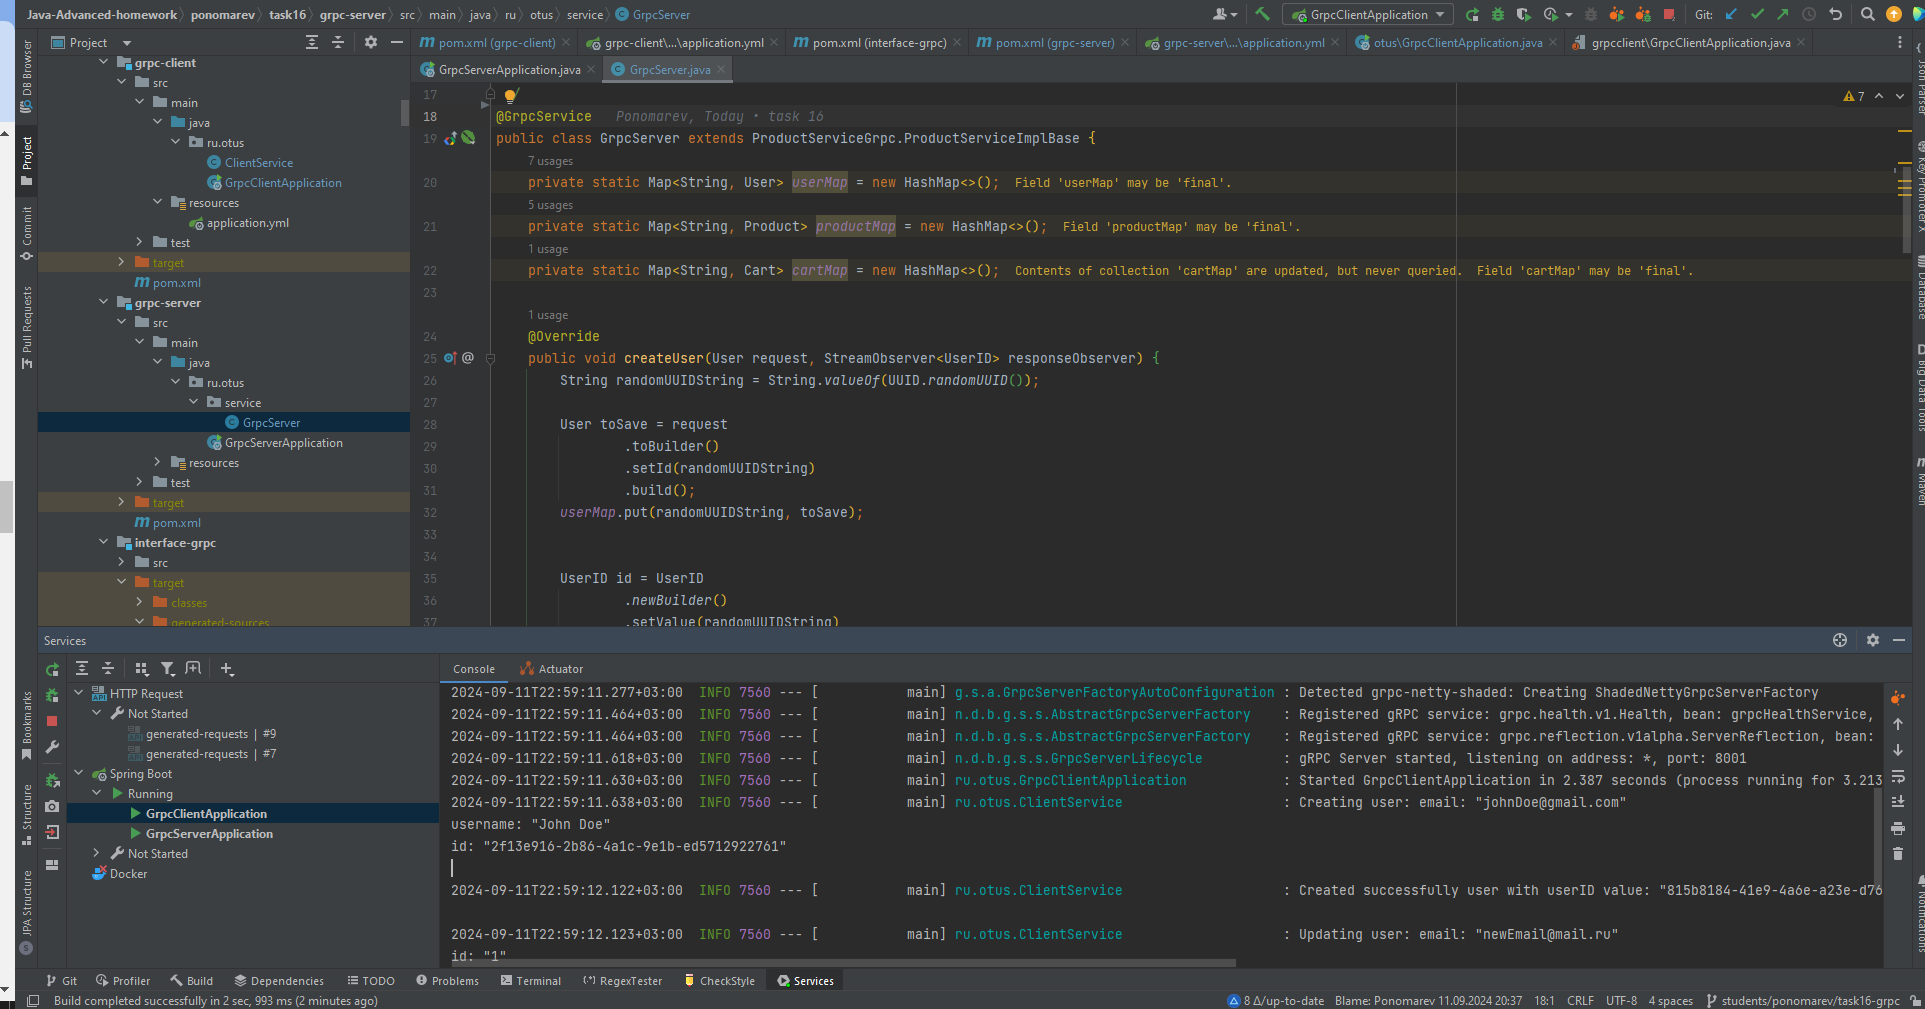
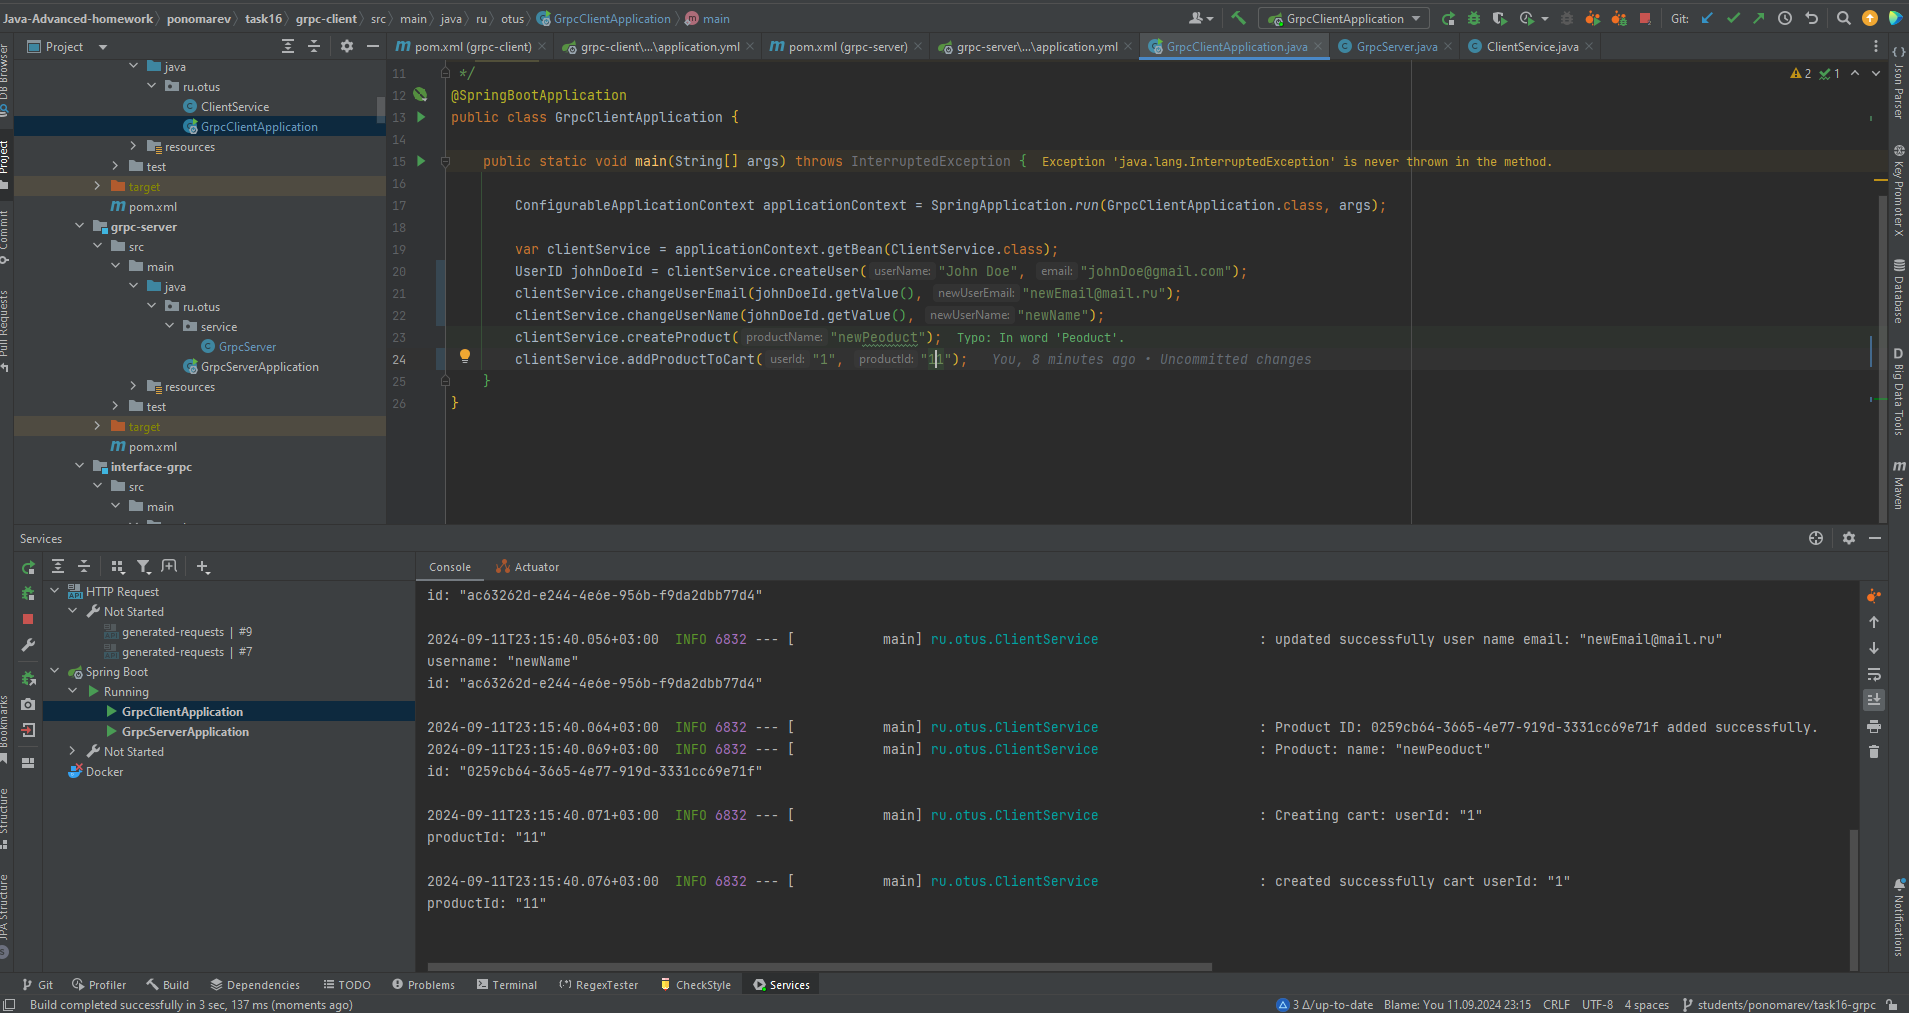
task 16 * code refactor

diff --git a/ponomarev/task16/grpc-client/src/main/java/ru/otus/GrpcClientApplication.java b/ponomarev/task16/grpc-client/src/main/java/ru/otus/GrpcClientApplication.java
@@ -3,6 +3,7 @@ package ru.otus;
 import org.springframework.boot.SpringApplication;
 import org.springframework.boot.autoconfigure.SpringBootApplication;
 import org.springframework.context.ConfigurableApplicationContext;
+import ru.otus.grpc.UserID;
 
 /**
  * @author Anton Ponomarev on 05.09.2024
@@ -16,10 +17,10 @@ public class GrpcClientApplication {
         ConfigurableApplicationContext applicationContext = SpringApplication.run(GrpcClientApplication.class, args);
 
         var clientService = applicationContext.getBean(ClientService.class);
-        clientService.createUser("John Doe", "johnDoe@gmail.com");
-        clientService.changeUserEmail("1", "newEmail@mail.ru");
-        clientService.changeUserName("1", "newName");
+        UserID johnDoeId = clientService.createUser("John Doe", "johnDoe@gmail.com");
+        clientService.changeUserEmail(johnDoeId.getValue(), "newEmail@mail.ru");
+        clientService.changeUserName(johnDoeId.getValue(), "newName");
         clientService.createProduct("newPeoduct");
-        clientService.addProductToCart("1", "1");
+        clientService.addProductToCart("1", "11");
     }
 }

diff --git a/ponomarev/task16/grpc-server/src/main/java/ru/otus/service/GrpcServer.java b/ponomarev/task16/grpc-server/src/main/java/ru/otus/service/GrpcServer.java
@@ -58,7 +58,7 @@ public class GrpcServer extends ProductServiceGrpc.ProductServiceImplBase {
 
         String id = request.getId();
 
-        if (productMap.containsKey(id)) {
+        if (userMap.containsKey(id)) {
             User user = userMap.get(id).toBuilder()
                     .setEmail(request.getEmail())
                     .build();
@@ -75,7 +75,7 @@ public class GrpcServer extends ProductServiceGrpc.ProductServiceImplBase {
     public void changeUserName(User request, StreamObserver<User> responseObserver) {
         String id = request.getId();
 
-        if (productMap.containsKey(id)) {
+        if (userMap.containsKey(id)) {
             User user = userMap.get(id).toBuilder()
                     .setUsername(request.getUsername())
                     .build();
